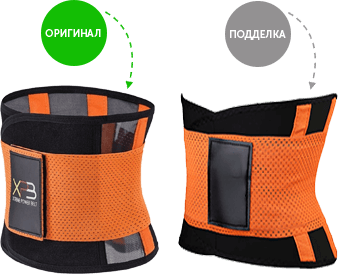
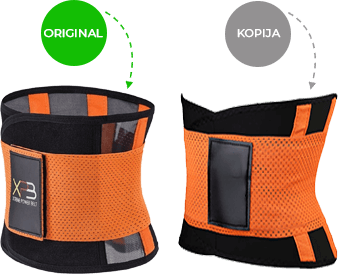
Hotbelt - Server commit

Changed region(s): [[0.1183, 0.0876, 0.3254, 0.146], [0.6805, 0.0876, 0.858, 0.146]]

diff --git a/resources/views/lander/naturapharm/rs/hotbelt.blade.php b/resources/views/lander/naturapharm/rs/hotbelt.blade.php
@@ -42,37 +42,37 @@
         <div class="container">
             <img class="logo" src="{{ asset('/') }}flexonikFiles/xtremeshape/logo.png" alt="">
             <ul class="benef1">
-                <li><b>До <span>-7 см</span> в талии</b> за 1 месяц<br> без вреда для здоровья</li>
-                <li><b>Более <span>50 тысяч</span> довольных</b><br> фигурой после пояса</li>
-                <li><b>Доставка <span>от 3 рабочих</span> <br>дней</b> в любой регион</li>
+                <li><b>Skida santimetre već za mesec dana</b></li>
+                <li><b>Više hiljada zadovoljnih korisnika</b></li>
+                <li><b>Dostava za 24-48h</b></li>
             </ul>
-            <a href="#order_form" class="button1">Быстрый заказ</a>
+            <a href="#order_form" class="button1">Naruči odmah</a>
         </div>
     </div>
 </section>
 <section class="offer">
     <div class="wrapper">
         <div class="content">
-            <p class="main_title">Xtreme Power Belt <span></span></p>
-            <h2 class="main_subtitle"><span>Мгновенное корректирование</span> фигуры за пару движений</h2>
+            <p class="main_title">Hot Belt <span></span></p>
+            <h2 class="main_subtitle"><span>Brzo i lako</span> do željene figure</h2>
             <div class="main_product">
-                <div class="product_name"><b>Пояс для похудения</b> и тонкой талии</div>
+                <div class="product_name"><b>Pojas za</b>mršav i uzak struk</div>
                 <img class="prod" src="{{ asset('/') }}flexonikFiles/xtremeshape/product.png" alt="">
                 <img class="bef_after" src="{{ asset('/') }}flexonikFiles/xtremeshape/bef_after.png" alt="">
             </div>
             <div class="action_box">
-                <p>Специальная цена <span>только 1 день</span></p>
+                <p>Samo danas <span>40% popusta</span></p>
                 <div class="price">
                     <div class="old"><span>{{ $prices[1]['originalPrice'] }}</span><small>RSD</small></div>
                     <div class="new"><span>{{ $prices[1]['amount'] }}</span><small>RSD</small></div>
                 </div>
-                <a href="#order_form" class="button">Заказать со скидкой</a>
+                <a href="#order_form" class="button">Naruči sa popustom</a>
                 {{--<div class="timer">--}}
                     {{--Повышение цены через: <span class="hours"></span> : <span class="minutes"></span> : <span class="seconds"></span>--}}
                 {{--</div>--}}
             </div>
         </div>
-        <a href="#video" class="video_btn">Смотреть<br> отзыв</a>
+        <!--<a href="#video" class="video_btn">Смотреть<br> отзыв</a>-->
         <img class="figure" src="{{ asset('/') }}flexonikFiles/xtremeshape/figure_product.png" alt="">
         <a href="#id2" class="sect_btn"></a>
     </div>
@@ -81,27 +81,27 @@
     <div class="wrapper">
         <ul class="benef2">
             <li>
-                <div class="top">Эффект тонкой осиной талии</div>
-                <div class="bottom">Пояс подарит талию мечты <br>всего за пару движений без боли и дискомфорта</div>
+                <div class="top">Pogađa struk</div>
+                <div class="bottom">Uz samo par dana nošenja imaćete struk kakav ste oduvek sanjali.</div>
                 <img src="{{ asset('/') }}flexonikFiles/xtremeshape/benef2_img1.png" alt="">
             </li>
             <li>
-                <div class="top">Безопасное похудение в области живота</div>
-                <div class="bottom">При регулярном <br>использовании убирает <br>лишний жир с живота и боков</div>
+                <div class="top">Bezbedno skidanje stomaka</div>
+                <div class="bottom">Uz normalnu upotrebu topi masti sa stomaka i bokova</div>
                 <img src="{{ asset('/') }}flexonikFiles/xtremeshape/benef2_img2.png" alt="">
             </li>
             <li>
-                <div class="top">Послеродовое восстановление</div>
-                <div class="bottom">Идеален для <br>восстановления <br>фигуры после родов</div>
+                <div class="top">Oporavak posle porođaja</div>
+                <div class="bottom">Idealan za vraćanje u prvobitnu liniju</div>
                 <img src="{{ asset('/') }}flexonikFiles/xtremeshape/benef2_img3.png" alt="">
             </li>
         </ul>
     </div>
-    <div class="bg_text">Xtreme Power Belt</div>
+    <div class="bg_text">Hot Belt</div>
 </section>
 <section class="sect3">
     <div class="wrapper">
-        <h2 class="title"><b>Посмотрите, как просто достичь <br> эффекта осиной талии</b> за пару движений</h2>
+        <h2 class="title">Uverite se u <b>efikasnost ovog pojasa i kako <br> lako možete doći do</b> željenih rezultata</h2>
         <div class="column">
             <div class="left">
                 <video loop preload autoplay controls=""><source src="{{ asset('/') }}flexonikFiles/xtremeshape/gif_video.mp4" type="video/mp4">
@@ -109,12 +109,12 @@
             </div>
             <div class="right">
                 <div class="text">
-                    <p><span>С поясом вам не нужно постоянно втягивать живот или носить мешковатую одежду. Вы мгновенно обретете сексуальные изгибы, о которых только мечтали. А приятным бонусом станет не только подтянутая талия, но и грациозная осанка с приподнятой грудью!</span></p>
-                    <p>При этом поддержка поясом спины <b>снизит нагрузку на позвоночник и избавит от боли в спинном и поясничном отделах.</b> Это особенно актуально после рождения ребенка, которого вы постоянно носите на руках.</p>
-                    <p>А еще в нем просто невозможно переедать! Утянутая талия контролирует количество поступающей еды, благодаря чему <b>вы не сможете съесть больше положенного, а значит не наберете лишних килограммов.</b></p>
+                    <p><span>Dosta uvlačenja stomaka i nošenja velike odeće!</span> Za veoma kratko vreme postignite želejnu liniju! I ne samo to, dok vam pojas pomaže da smršate, takođe i popravlja držanje</p>
+                    <p>Podrška za ledja koja je ušivena u pojas će <span>smanjiti opterećenje na vašu kičmu i rešiti vas svakog bola u lumbalno delu.</span> Ovo posebno pogoduje trudnicama koji veći deo dana nose dete u rukama.</p>
+                    <p><span>Pojas vam pomaže i da regulišete ishranu.</span> Dok ga nosite, gotovo je nemoguće da preterate sa unosom hrane, tako da ćete biti sigurni da nećete uneti više hrane nego što je potrebno.</p>
                 </div>
                 <img src="{{ asset('/') }}flexonikFiles/xtremeshape/s3_img.jpg" alt="">
-                <a href="#order_form" class="button">Хочу тонкую талию</a>
+                <a href="#order_form" class="button">NARUČI SADA</a>
             </div>
         </div>
     </div>
@@ -124,37 +124,37 @@
         <img src="{{ asset('/') }}flexonikFiles/xtremeshape/s4_woman.png" alt="">
         <div class="content">
             <div class="text">
-                <h4><b>«Подарите себе эффектную тонкую талию,</b> и ваша фигура не останется незамеченной!»</h4>
-                <p>Когда я впервые надела пояс Xtreme Power Belt я и не думала, что получу СТОЛЬКО комплиментов в адрес моей фигуры. Я очень люблю на разных мероприятиях производить яркое впечатление, и такого ПОТРЯСАЮЩЕГО эффекта, как с поясом, ни от одного утягивающего платья не получить!</p>
+                <h4><b>Koristite ovaj pojas i dostignite željenu figuru.</b> Nećete proči neprimećeno</h4>
+                <p>Prvi put kada sam obukla Hot Belt nisam ni očekivala da ću dobiti toliko komplimenata na račun mog izgleda. Posečujem dosta eventova, i volim da ostavim utisak gde god se pojavim, i verujte da mi nijedna haljina nije pomogla da to i ostvarim kao Hot Belt.</p>
                 <div class="author">
-                    <p>Анна Седокова</p>
-                    <small>Певица, дизайнер одежды, актриса, теле- и радиоведущая</small>
+                    <p>Marija Kirilenko</p>
+                    <small>modni dizajner, bloger, model</small>
                 </div>
-                <a href="#order_form" class="button width">Заказать пояс со&nbsp;скидкой</a>
+                <a href="#order_form" class="button width">NARUČI SADA SA POPUSTOM</a>
             </div>
         </div>
     </div>
-    <div class="bg_text">Xtreme Power Belt</div>
+    <div class="bg_text">Hot Belt</div>
 </section>
 <section class="sect5">
     <div class="wrapper">
-        <h2 class="title"><b>Как пояс эффективно сжигает лишние см <br>в талии и на боках? </b></h2>
+        <h2 class="title"><b>Kako pojas topi santimetre, i skida masti sa stomaka i bokova? </b></h2>
         <div class="column">
             <div class="left">
-                <p>Пояс выполнен по <span>специальной двойной технологии воздействия,</span> секрет которой в сочетании внутреннего пояса для создания парникового эффекта и внешнего пояса для регулируемого компрессионного эффекта.</p>
-                <p>«Эффект сауны» создается внутренним поясом, выполненным из специальной полимерной ткани Neotex. Она ускоряет естественное потоотделение в 4 раза, создавая эффект сауны и, таким образом, <span>вместе с потом из организма выводятся токсины и интенсивно сжигается лишний жир.</span> Чем больше физические нагрузки, тем сильнее активируется эффект жиросжигания.</p>
-                <p>Особенностью пояса является то, что <span>расщепление жировой прослойки в области живота и на боках происходит и без повышенных физических нагрузок,</span> а только при регулярном использовании пояса во время любых повседневных занятий — прогулке, домашних делах, на работе, катании на велосипеде и многих других.</p>
+                <p>Tajna Hot Belt pojasa je u double impact tehnologiji. Kombinacijom unutrasnjeg pojasa koji izaziva pojačano topljenje masti, i spoljasnjeg pojasa preko koga se podešava nivo kompresije, <span>naši korisnici efkisano skidaju kilažu.</span></p>
+                <p><span>Unutrašnji pojas je izrađen od specijalnog Neotex-a i izaziva “efekat saune”.</span> Ubrzava znojenje i do 4 puta, i tako osim što topi višak masti, eliminiše i toksine iz tela. Uz pojačanu fizičku aktivnost masti se brže tope, te se zbog toga preporučuje fizička aktivnost uz korišćenje ovog pojasa.</p>
+                <p><span>Specificnost ovog pojasa</span> je sto može uklanjati masti sa <span>bez fizičke aktivnosti</span>, ali je u tom slučaju potrebno da se pojas nosi svakodnevno prilikom obavljanja dnevnih aktivnosti - šetnje, kućnih poslova, na poslu i slično.</p>
             </div>
             <img src="{{ asset('/') }}flexonikFiles/xtremeshape/prod_size.jpg" alt="">
         </div>
-        <a href="#order_form" class="button">Заказать сейчас</a>
+        <a href="#order_form" class="button">Naručite odmah</a>
     </div>
-    <div class="bg_text">Xtreme Power Belt</div>
+    <div class="bg_text">Hot belt</div>
 </section>
 <section class="sect6">
     <div class="wrapper">
-        <h2 class="title"><b>Реальные результаты похудения <br>покупателей пояса</b></h2>
-        <p class="subtitle">Чтобы достичь впечатляющих результатов, необходимо регулярно носить пояс по несколько часов в день в течение месяца. Убедитесь сами, каких результатов можно достичь просто используя пояс Xtreme Power Belt ↓↓↓</p>
+        <h2 class="title"><b>Rezultati praviih kupaca</b></h2>
+        <p class="subtitle">Za najbolje rezultate, pojas nositi više sati dnevno oko mesec dana.</p>
         <div class="result_carousel owl-carousel">
             <img src="{{ asset('/') }}flexonikFiles/xtremeshape/result1.jpg" alt="">
             <img src="{{ asset('/') }}flexonikFiles/xtremeshape/result2.jpg" alt="">
@@ -163,100 +163,99 @@
             <img src="{{ asset('/') }}flexonikFiles/xtremeshape/result5.jpg" alt="">
             <img src="{{ asset('/') }}flexonikFiles/xtremeshape/result6.jpg" alt="">
         </div>
-        <p>*Обратите внимание — из-за индивидуальных особенностей организма скорость похудения в области талии, живота и боков может варьироваться</p>
+        <!--<p>*Обратите внимание — из-за индивидуальных особенностей организма скорость похудения в области талии, живота и боков может варьироваться</p>-->
     </div>
 </section>
 <section class="sect7">
-    <div class="bg_text top">Xtreme Power Belt</div>
+    <div class="bg_text top">Hot Belt</div>
     <div class="wrapper">
-        <h2 class="title"><b>Преимущества пояса</b></h2>
+        <h2 class="title"><b>Zašto baš Hot Belt?</b></h2>
         <ul class="benef3">
             <li>
                 <img src="{{ asset('/') }}flexonikFiles/xtremeshape/benef3_img1.jpg" alt="">
-                <p><b>Материал Neotex — полностью гипоаллергенен.</b> Благодаря наличию сетчатых вставок на спине, происходит циркуляция воздуха для исключения перепотевания и появления раздражений на коже</p>
+                <p><b>Neotex ne izaziva iritacije i alergijske reakcije.</b> Zbog rupičaste tkanine na leđima vazduh neometano cirkuliše i onemogućava bilo kakve iritacije.</p>
             </li>
             <li>
                 <img src="{{ asset('/') }}flexonikFiles/xtremeshape/benef3_img2.jpg" alt="">
-                <p><b>Регулирование степени сжатия</b> с помощью удобных «липучек» можно подбирать комфортную степень утяжки по мере похудения, без передавливания</p>
+                <p><b>Podesiv nivo kompresije.</b> Uz pomoć trakica moežete da podesite nivo kompresije na onaj koji vama odgovara.</p>
             </li>
             <li>
                 <img src="{{ asset('/') }}flexonikFiles/xtremeshape/benef3_img3.jpg" alt="">
-                <p><b>Эластичный материал не растягивается и не сползает в течение дня,</b> а также при занятиях спортом и во время любых активностей</p>
+                <p><b>Elastičan materijal se ne rasteže i ne spada tokom dana,</b> kao i prilikom bavljenja sportom ili obavljanja drugih aktivnosti.</p>
             </li>
             <li>
                 <img src="{{ asset('/') }}flexonikFiles/xtremeshape/benef3_img4.jpg" alt="">
-                <p><b>Незаметен под одеждой и не стесняет движений</b> благодаря тонким швам и комфортному облеганию. Он приятен на ощупь и подходит для долговременного использования</p>
+                <p><b>Nevidljiv ispod odeće i ne ograničava pokrete.</b> Jako je udoban, prijatan na dodir i dugovečan.</b></p>
             </li>
             <li class="order_li">
                 <img src="{{ asset('/') }}flexonikFiles/xtremeshape/product1.png" alt="">
-                <a href="#order_form" class="button">Заказать со скидкой</a>
+                <a href="#order_form" class="button">Naručite odmah</a>
             </li>
             <li>
                 <img src="{{ asset('/') }}flexonikFiles/xtremeshape/benef3_img5.jpg" alt="">
-                <p><b>Не требует особенного ухода,</b> легко стирается, не теряет форму и свойства на протяжении длительного времени</p>
+                <p><b>Ne zahteva specijalnu negu i lak je za pranje.</b> Prilikom pranja ne gubi oblik i svoja svojstva.</p>
             </li>
         </ul>
     </div>
 </section>
 <section class="sect8">
-    <div class="bg_text top">Xtreme Power Belt</div>
+    <div class="bg_text top">Hot Belt</div>
     <div class="wrapper">
-        <h2 class="title"><b>Почему пояс незаменим в послеродовой период?</b></h2>
+        <h2 class="title"><b>Zašto je vrhunski izbor za posle porodjaja?</b></h2>
         <div class="column">
             <div class="left">
                 <img src="{{ asset('/') }}flexonikFiles/xtremeshape/mom.jpg" alt="">
             </div>
             <div class="right">
                 <ul class="list1">
-                    <li>Возвращает тонус мышцам живота, укрепляет и сужает талию, помогая ей быстро прийти в дородовое состояние</li>
-                    <li>Надежно фиксирует и защищает послеродовые швы</li>
-                    <li>Помогает поддерживать мышцы передней брюшной стенки</li>
-                    <li>Предотвращает появление «послеродового фартука» из обвисшей кожи живота</li>
-                    <li>Снимает нагрузку с позвоночника, позволяя носить малыша на руках с большим комфортом для спины</li>
+                    <li>Vraća tonus abdominalnim mišićima, jača i stanjuje struk, i ubrzava povratak u stanje pre porođaja</li>
+                    <li>Pruža podršku mišićima trbušnog zida</li>
+                    <li>Sprečava nastanak opuštene kože koju je posle teško vratiti u prvobitno stanje</li>
+                    <li>Oslobađa kičmu pritiska tako da možete lakše i duže da nosite bebu u naručju</li>
                 </ul>
             </div>
         </div>
         <div class="alert">
-            Пока все свое внимание и любовь вы отдаете малышу, пояс Xtreme Power Belt позаботится о вашей талии!
+            Dok Vi posvećujete pažnju Vašem mališanu, Hot Belt će posvećivati pažnju Vama i brinuće se o Vašem izgledu.
         </div>
     </div>
 </section>
 <section class="sect9">
     <div class="bg_text top">Xtreme Power Belt</div>
     <div class="wrapper">
-        <h2 class="title"><b>Рекомендуют профессионалы</b></h2>
+        <h2 class="title"><b>Preporuka profesionalaca</b></h2>
         <div class="expert_block">
             <div class="left">
                 <div class="author">
                     <img src="{{ asset('/') }}flexonikFiles/xtremeshape/expert_ava.png" alt="">
-                    <p><b>Natali Kostova</b> фитнес-эксперт, тренер</p>
+                    <p><b>Natalija Kostic</b> fitnes instruktor</p>
                 </div>
-                <p>«Отвечаю на один из самых популярных вопросов, который мне постоянно присылают в директ! Какой корсет или пояс более эффективен для коррекции фигуры и тренировок?</p>
-                <p>• Я предпочитаю пояса, а именно Xtreme Power Belt, потому что он лучше держит талию и спину.</p>
-                <p>• Ношу на тренировке и днем около 3-5 часов.</p>
-                <p>• Помогает не переедать, чувствовать насыщение едой в меньших количествах, снимает нагрузку с косых мышц пресса, позволяет предотвратить естественное расширение в талии от тяжелых нагрузок.»</p>
+                <p>Jedno od najčešćih pitanja koje mi stiže u DM je da li su pojasevi i korseti efikasni i koji je najbolji?</p>
+                <p>• Da, efikasni su i čak ih i ja koristim, ali samo ako koristite prave i originalne proizvode. Ja koristim Hot Belt zato sto pruža mojim leđima potporu, i linija mi je nikad bolja.</p>
+                <p>• Nosim ga dok treniram, i oko 3 sata u toku dana.</p>
+                <p>• Dosta mi pomaže u kontroli unosa hrane, oblikuje mišiće i generalno ga preporučujem svima.</p>
             </div>
             <div class="right">
                 <img src="{{ asset('/') }}flexonikFiles/xtremeshape/expert.jpg" alt="">
             </div>
         </div>
-        <a href="#order_form" class="button">Заказать в 1 клик</a>
+        <a href="#order_form" class="button">Naručite odmah</a>
     </div>
 </section>
-<section class="sect10">
-    <div class="wrapper">
-        <h2 class="title"><b>Отзывы покупателей пояса</b></h2>
-        <p>Ежедневно мы получаем десятки отзывов о поясе и эффекте от его использования. Хотим поблагодарить наших покупателей за такую активную обратную связь! Она позволяет нам учитывать каждое мнение. Спасибо! Предлагаем подборку свежих отзывов.</p>
-        <div class="reviews owl-carousel">
-            <img src="{{ asset('/') }}flexonikFiles/xtremeshape/rev2.jpg" alt="">
-            <img src="{{ asset('/') }}flexonikFiles/xtremeshape/rev1.jpg" alt="">
-            <img src="{{ asset('/') }}flexonikFiles/xtremeshape/rev3.jpg" alt="">
-            <img src="{{ asset('/') }}flexonikFiles/xtremeshape/rev4.jpg" alt="">
-            <img src="{{ asset('/') }}flexonikFiles/xtremeshape/rev5.jpg" alt="">
-            <img src="{{ asset('/') }}flexonikFiles/xtremeshape/rev6.jpg" alt="">
-        </div>
-    </div>
-</section>
+<!--<section class="sect10">-->
+<!--    <div class="wrapper">-->
+<!--        <h2 class="title"><b>Отзывы покупателей пояса</b></h2>-->
+<!--        <p>Ежедневно мы получаем десятки отзывов о поясе и эффекте от его использования. Хотим поблагодарить наших покупателей за такую активную обратную связь! Она позволяет нам учитывать каждое мнение. Спасибо! Предлагаем подборку свежих отзывов.</p>-->
+<!--        <div class="reviews owl-carousel">-->
+<!--            <img src="{{ asset('/') }}flexonikFiles/xtremeshape/rev2.jpg" alt="">-->
+<!--            <img src="{{ asset('/') }}flexonikFiles/xtremeshape/rev1.jpg" alt="">-->
+<!--            <img src="{{ asset('/') }}flexonikFiles/xtremeshape/rev3.jpg" alt="">-->
+<!--            <img src="{{ asset('/') }}flexonikFiles/xtremeshape/rev4.jpg" alt="">-->
+<!--            <img src="{{ asset('/') }}flexonikFiles/xtremeshape/rev5.jpg" alt="">-->
+<!--            <img src="{{ asset('/') }}flexonikFiles/xtremeshape/rev6.jpg" alt="">-->
+<!--        </div>-->
+<!--    </div>-->
+<!--</section>-->
 {{--<section class="sect11" id="video">--}}
     {{--<div class="wrapper">--}}
         {{--<h2 class="title"><b>Видеоотзыв</b></h2>--}}
@@ -266,34 +265,34 @@
     {{--</div>--}}
 {{--</section>--}}
 <section class="sect12">
-    <div class="bg_text top">Xtreme Power Belt</div>
+    <div class="bg_text top">Hot Belt</div>
     <div class="wrapper">
-        <h2 class="title"><b>Как мы работаем?</b></h2>
+        <h2 class="title"><b>Kako naručiti?</b></h2>
         <ul class="order_list">
             <li>
-                <span>Заявка</span>
-                <p>Оставьте заявку на нашем сайте</p>
-                <a href="#order_form" class="button cursor">Заказать</a>
+                <span>Forma</span>
+                <p>Popunite formu i kliknite</p>
+                <a href="#order_form" class="button cursor">NARUČI</a>
             </li>
             <li>
-                <span>Звонок</span>
-                <p>Вам перезвонит наш менеджер, ответит на все вопросы и поможет оформить заказ</p>
+                <span>Potvrda</span>
+                <p>Ubrzo ćete SMS porukom dobiti potvrdu porudžbine</p>
                 <img src="{{ asset('/') }}flexonikFiles/xtremeshape/order_phone.png" alt="">
             </li>
             <li>
-                <span>Доставка и оплата</span>
-                <p>Доставим через 3-10 дней без предоплаты. Оплачиваете заказ при получении на почте</p>
+                <span>Dostava & Plaćanje</span>
+                <p>U roku od 24-48h proizvod će biti kod Vas, a kuriru plaćate po preuzimanju robe</p>
                 <img src="{{ asset('/') }}flexonikFiles/xtremeshape/product2.png" alt="">
             </li>
         </ul>
         <div class="warn_block">
-            <h4><span>Внимание!</span> Остерегайтесь подделок!</h4>
+            <h4><span>Pažnja!</span> Kupujte od proverenih prodavaca!</h4>
             <img class="img" src="{{ asset('/') }}flexonikFiles/xtremeshape/fake_orig.png" alt="">
-            <p>Из-за растущей популярности утягивающего пояса, участились случаи его подделок. Мы являемся официальными дилерами Xtreme Power Belt и поставляем только оригинальные пояса от производителя.</p>
-            <p>Поэтому берегите свое здоровье, деньги и нервы — <b>заказывайте у нас и можете быть уверены в качестве купленного пояса!</b></p>
+            <p>Sve je više prodavaca na crno koji prodaju kopiju robe po nerealno niskim cenama. </p>
+            <p>Mi smo registrovano preduzeće za online trgovinu i kupovinom kod nas ostvarujete sva zakonska prava - garanciju, pravo na zamenu, pravo na povrat novca. Kupovinom kod neregistrovanih subjekata nemate nijedno zakonom zagarantovano pravo.</b></p>
             <div class="label">
                 <img src="{{ asset('/') }}flexonikFiles/xtremeshape/orig_label.png" alt="">
-                <p>100% гарантия качества от производителя</p>
+                <p>100% garancija kvaliteta</p>
             </div>
         </div>
     </div>
@@ -301,11 +300,11 @@
 <section class="offer offer_bottom">
     <div class="wrapper">
         <div class="content">
-            <p class="main_title">Xtreme Power Belt <span></span></p>
-            <h2 class="main_subtitle"><span>Пояс для похудения</span> и тонкой талии</h2>
+            <p class="main_title">Hot Belt <span></span></p>
+            <h2 class="main_subtitle"><span>BRZO I LAKO</span> do željene figure</h2>
             <div class="column">
                 <div class="action_box">
-                    <p>Специальная цена <span>только 1 день</span></p>
+                    <p>Samo danas <span>40% popusta</span></p>
                     <div class="price">
                         <div class="old"><span>{{ $prices[1]['originalPrice'] }}</span><small>RSD</small></div>
                         <div class="new"><span>{{ $prices[1]['amount'] }}</span><small>RSD</small></div>
@@ -317,22 +316,22 @@
                 </div>
                 <div class="formbox">
                     <div class="action_text">
-                        <span>Оставьте заявку</span>
-                        <p>наш менеджер перезвонит вам в течение 10 минут и поможет оформить заказ</p>
-                        <small>Звонок абсолютно бесплатный!</small>
+                        <span>Vaši podaci</span>
                     </div>
                     <form id="order_form" class="main-order-form main_form" action="#" method="post">
-
-                        <input type="text" name="name" placeholder="Введите ваше имя" required="">
-                        <input type="tel" name="phone" placeholder="Введите ваш телефон" required="">
-                        <button class="button">Заказать со скидкой</button>
+                        
+                        <input id="customer_firstname" value="" name="name" class="shipping-firstname" type="text" maxlength="30" placeholder="Ime i prezime" required="">
+                        <input id="customer_phone" value="" name="phone" class="customer-phone" type="tel" maxlength="20" placeholder="Broj telefona" required="">
+                        <input id="shipping_city" value="" name="shipping_city" class="shipping-city" type="text" maxlength="30" placeholder="Grad" required="">
+                        <input id="shipping_address" value="" name="shipping_address" class="shipping-address" type="text" maxlength="80" placeholder="Ulica i broj" required="">
+                        <button class="button">Naručite odmah</button>
 
                     </form>
-                    <div class="timer">Повышение цены через: <span class="hours"></span> : <span class="minutes"></span> : <span class="seconds"></span></div>
+                    <!--<div class="timer">Повышение цены через: <span class="hours"></span> : <span class="minutes"></span> : <span class="seconds"></span></div>-->
                 </div>
             </div>
         </div>
-        <a href="#video" class="video_btn">Смотреть<br> отзыв</a>
+        <!--<a href="#video" class="video_btn">Смотреть<br> отзыв</a>-->
         <img class="figure" src="{{ asset('/') }}flexonikFiles/xtremeshape/figure_product.png" alt="">
     </div>
 </section>

diff --git a/resources/views/lander/naturetea/rs/diabetea.blade.php b/resources/views/lander/naturetea/rs/diabetea.blade.php
@@ -13,6 +13,7 @@
     <link href="{{ asset('/') }}natureteaFiles/diabetea/style.css" rel="stylesheet">
     <link href="{{ asset('/') }}natureteaFiles/diabetea/media.css" rel="stylesheet">
     <link href="{{ asset('/') }}natureteaFiles/shared_files/logo.png" rel="icon" type="image/png">
+    <meta name="facebook-domain-verification" content="zi8dvsusf6hubh93a2079jq2giehw1" />
 </head>
 <body>
 @include('components.display_errors')
